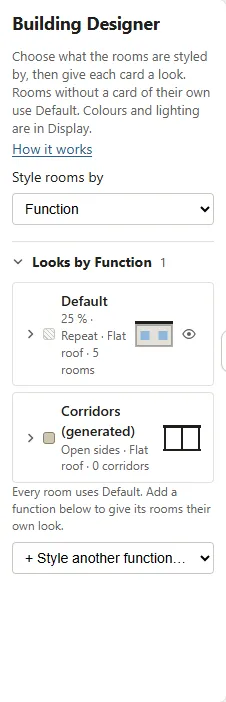
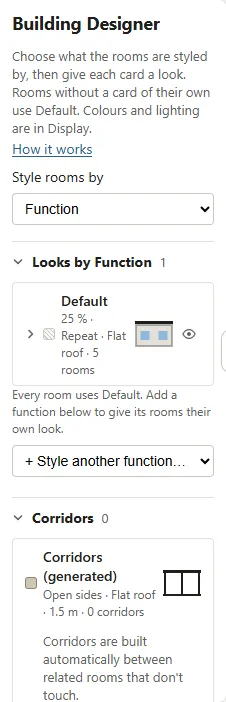
refactor(designer): corridors in their own section
The Corridors (generated) card moves out of "Looks by ..." into its own
collapsible Corridors section after the looks (remembered open state,
corridor count as meta); its content, commands and undo are unchanged
and it is always open inside the section. Properties points to
Building Designer -> Corridors; Guide text, mock, screenshot and the
workflow smoke step follow.

diff --git a/app/designer/DesignerPanel.tsx b/app/designer/DesignerPanel.tsx
@@ -193,6 +193,7 @@ export function DesignerPanel({ design, project, facades }: DesignerPanelProps) 
   const isNumber = cards.attribute.kind === 'number';
   const bands = cards.mode === 'bands';
   const noun = addNoun(cards.attribute);
+  const corridors = corridorCard(doc, spatial);
   return (
     <div className="sgl-designer" aria-label="Building Designer">
       <div className="sgl-designer-intro">
@@ -276,15 +277,6 @@ export function DesignerPanel({ design, project, facades }: DesignerPanelProps) 
         <ul className="sgl-designer-list">
           {renderCard(cards.defaultCard)}
           {cards.cards.map(renderCard)}
-          <li key="corridors">
-            <CorridorCard
-              card={corridorCard(doc, spatial)}
-              onWalls={(walls) => send(setCorridorWallsEdit(doc, walls))}
-              onRoof={(roof) => send(setCorridorRoofEdit(doc, roof))}
-              onWidth={(text) => send(setCorridorWidthEdit(doc, text))}
-              onReset={() => send(resetCorridorsEdit(doc))}
-            />
-          </li>
         </ul>
         {cards.missingCount > 0 && cards.attribute.status !== 'removed' && (
           <p className="sgl-designer-source">
@@ -301,6 +293,17 @@ export function DesignerPanel({ design, project, facades }: DesignerPanelProps) 
           <AddCardMenu noun={noun} cards={cards} onAdd={(option) => send(addCardEdit(doc, cards.by, option.value, option.label))} />
         )}
         {facades && <FacadeLibraryFooter facades={facades} usedHere={usedHere} />}
+      </CollapsibleSection>
+
+      {/* Corridors are generic (2026-11-20): their own section, not a look of a function or attribute value. */}
+      <CollapsibleSection title="Corridors" sectionId="designer-corridors" defaultOpen meta={corridors.corridorCount !== null ? String(corridors.corridorCount) : undefined}>
+        <CorridorCard
+          card={corridors}
+          onWalls={(walls) => send(setCorridorWallsEdit(doc, walls))}
+          onRoof={(roof) => send(setCorridorRoofEdit(doc, roof))}
+          onWidth={(text) => send(setCorridorWidthEdit(doc, text))}
+          onReset={() => send(resetCorridorsEdit(doc))}
+        />
       </CollapsibleSection>
     </div>
   );
@@ -391,10 +394,11 @@ const CORRIDOR_WALL_HELP: Readonly<Record<string, string>> = {
 };
 
 /**
- * The Corridors card (owner 2026-11-19, "Corridors as a look card"): built like a room card, after
- * the room cards whatever "Style rooms by" is (corridors are not grouped by room values). Walls
- * (Enclosed / Open) and Roof (Flat / Pergola / None) of every generated corridor; windows and
- * imported façades do not apply to corridors. One relationship can still set its own in Properties.
+ * The Corridors card (owner 2026-11-19, "Corridors as a look card"; in its own Corridors section
+ * since 2026-11-20, because corridors are not grouped by any room value): built like a room card,
+ * always open (the section collapses it). Walls (Enclosed / Open), Roof (Flat / Pergola / None) and
+ * Width of every generated corridor; windows and imported façades do not apply to corridors. One
+ * relationship can still set its own in Properties.
  */
 function CorridorCard({
   card,
@@ -409,7 +413,6 @@ function CorridorCard({
   readonly onWidth: (text: string) => void;
   readonly onReset: () => void;
 }) {
-  const [open, toggleOpen] = useRememberedOpen('designer-card:corridors', false);
   const idBase = 'sgl-designer-corridors';
   const { effective, setHere, overrideCount, corridorCount } = card;
   const source = (here: boolean) => (here ? 'Set here' : 'Built-in default');
@@ -417,10 +420,7 @@ function CorridorCard({
     <article className="sgl-designer-type sgl-designer-corridors" data-card="corridors" aria-labelledby={`${idBase}-name`}>
       <div className="sgl-designer-type-titlebar">
         <h4 className="sgl-designer-type-title">
-          <button type="button" className="sgl-designer-type-head" aria-expanded={open} aria-controls={`${idBase}-body`} onClick={toggleOpen}>
-            <svg className="sgl-designer-chevron" width="12" height="12" viewBox="0 0 12 12" aria-hidden="true">
-              <path d="M4 2.5 7.5 6 4 9.5" fill="none" stroke="currentColor" strokeWidth="1.6" strokeLinecap="round" strokeLinejoin="round" />
-            </svg>
+          <div className="sgl-designer-type-head sgl-designer-type-head--static">
             <span className="sgl-designer-swatch sgl-designer-swatch--corridor" aria-hidden="true" />
             <span className="sgl-designer-type-text">
               <span id={`${idBase}-name`} className="sgl-designer-type-name">
@@ -433,11 +433,11 @@ function CorridorCard({
               </span>
             </span>
             <FacadePreview fraction={0} layout="repeat" roof={effective.roof} walls={effective.walls} />
-          </button>
+          </div>
         </h4>
       </div>
 
-      <div id={`${idBase}-body`} className="sgl-designer-type-body" hidden={!open}>
+      <div id={`${idBase}-body`} className="sgl-designer-type-body">
         <p className="sgl-help">Corridors are built automatically between related rooms that don't touch.</p>
 
         <Subsection idBase={idBase} name="walls" title="Walls" rememberId="designer-card:corridors:walls">

diff --git a/app/designer/corridors.test.ts b/app/designer/corridors.test.ts
@@ -138,7 +138,7 @@ describe('corridor card model', () => {
   });
 });
 
-describe('Corridors card in the Looks list', () => {
+describe('Corridors card in its own Corridors section', () => {
   const html = (doc: DesignDocumentV2 = base()) => renderToStaticMarkup(createElement(DesignerPanel, { design: fakePort(doc) }));
   const cardOf = (markup: string) => {
     const start = markup.indexOf('data-card="corridors"');
@@ -146,13 +146,21 @@ describe('Corridors card in the Looks list', () => {
     return markup.slice(start, markup.indexOf('</article>', start));
   };
 
-  it('is one card after the room cards, built like a room card: Walls and Roof with source tags, preview, reset', () => {
+  it('is one card in its own section after Looks (not a look), built like a room card: Walls, Roof, Width with source tags, preview, reset', () => {
     const markup = html();
-    // In the Looks list, after the Default card; the old separate section is gone.
-    expect(markup).not.toContain('data-section="designer-corridors"');
-    const list = markup.slice(markup.indexOf('<ul class="sgl-designer-list">'));
-    expect(list.indexOf('data-card="corridors"')).toBeGreaterThan(list.indexOf('>Default<'));
+    // Its own collapsible section (2026-11-20), after the Looks section; the Looks list does not contain it.
+    const looks = markup.indexOf('data-section="designer-functions"');
+    const section = markup.indexOf('data-section="designer-corridors"');
+    expect(looks).toBeGreaterThan(-1);
+    expect(section).toBeGreaterThan(looks);
+    expect(markup.slice(looks, section)).not.toContain('data-card="corridors"');
+    expect(markup.indexOf('data-card="corridors"')).toBeGreaterThan(section);
     expect(markup.split('data-card="corridors"').length - 1).toBe(1);
+    // The Looks count is Default + the function cards only.
+    expect(markup.slice(looks, section)).toMatch(/Looks by Function<\/span><span class="[^"]*">1</);
+    // Always open inside its section: no toggle of its own, the body is never hidden.
+    expect(cardOf(markup)).not.toContain('<button type="button" class="sgl-designer-type-head');
+    expect(markup).not.toMatch(/id="sgl-designer-corridors-body"[^>]*hidden/);
     const card = cardOf(markup);
     expect(card).toContain('>Corridors (generated)</span>');
     expect(card).toContain('Open sides · Flat roof');
@@ -216,7 +224,7 @@ describe('Properties: corridor walls and roof of one relationship', () => {
     const html = render(withCorridors({ walls: 'enclosed', roof: 'pergola' }));
     expect(html).toMatch(/aria-label="Corridor walls"[^>]*>.*?<option value=""[^>]*selected=""[^>]*>Design default \(Enclosed\)<\/option>/);
     expect(html).toMatch(/aria-label="Corridor roof"[^>]*>.*?<option value=""[^>]*selected=""[^>]*>Design default \(Pergola \(open slats\)\)<\/option>/);
-    expect(html).toContain('Change every corridor with the Corridors card in Building Designer → Looks.');
+    expect(html).toContain('Change every corridor with the Corridors card in Building Designer → Corridors.');
     const builtIn = render(base());
     expect(builtIn).toContain('Design default (Open)');
     expect(builtIn).toContain('Design default (Flat)');

diff --git a/app/inspector/EdgeProperties.tsx b/app/inspector/EdgeProperties.tsx
@@ -148,7 +148,7 @@ function EdgePropertiesV2(props: PanelProps & { readonly edgeId: number }) {
         aria-label={`Corridor ${field}`}
         onChange={(e) => setCorridor(field, e.currentTarget.value)}
       >
-        <option value="" title="The Corridors card of the whole design (Building Designer → Looks)">
+        <option value="" title="The Corridors card of the whole design (Building Designer → Corridors)">
           Design default ({labelOfChoice(choices, designValue)})
         </option>
         {choices.map((c) => (
@@ -227,7 +227,7 @@ function EdgePropertiesV2(props: PanelProps & { readonly edgeId: number }) {
             attributeId="corridor"
             kind="geometry"
             label="Corridor"
-            title="This relationship’s own corridor look: walls, roof and width. Used only when a corridor is generated; Design default follows the Corridors card (Building Designer → Looks)."
+            title="This relationship’s own corridor look: walls, roof and width. Used only when a corridor is generated; Design default follows the Corridors card (Building Designer → Corridors)."
             control={
               <div className="sgl-corridor">
                 {corridorField('walls', 'Walls', CORRIDOR_WALL_CHOICES, designLook.walls)}
@@ -250,7 +250,7 @@ function EdgePropertiesV2(props: PanelProps & { readonly edgeId: number }) {
                 ? `This corridor: ${corridorLookText(look)}. `
                 : `No corridor is generated for this relationship now${resolution?.status === 'direct' ? ' (its rooms touch)' : ''}; these values are used only if one is. `}
               {ownCount === 0
-                ? 'Change every corridor with the Corridors card in Building Designer → Looks.'
+                ? 'Change every corridor with the Corridors card in Building Designer → Corridors.'
                 : `${ownCount === 1 ? 'One is' : ownCount === 2 ? 'Two are' : 'All three are'} set for this relationship only; Design default follows the Corridors card.`}
             </p>
           </FieldRow>

diff --git a/app/ui/guide/diagrams.tsx b/app/ui/guide/diagrams.tsx
@@ -737,23 +737,27 @@ const D: Record<string, () => ReactNode> = {
     </Mock>
   ),
   'panel-designer': () => (
-    <Mock alt="Building Designer: (1) Style rooms by Function, (2) the Default look card, (3) the Corridors (generated) card open, with Walls Enclosed or Open and Roof Flat, Pergola or None, (4) + Style another function." title="Building Designer">
+    <Mock alt="Building Designer: (1) Style rooms by Function, (2) the Default look card in Looks by Function, (3) + Style another function, (4) the Corridors section, separate from the looks, with Walls Enclosed or Open, Roof Flat, Pergola or None, and Width." title="Building Designer">
       <MRow label="Style rooms by" value="Function ▾" n={1} />
       <MSec title="Looks by Function" open>
         <div className="sgl-gd-card">
           <b>Default</b> 25 % · Repeat · Flat roof · 5 rooms <MNum n={2} />
         </div>
+        <div className="sgl-gd-row">
+          <MBtn>+ Style another function… ▾</MBtn> <MNum n={3} />
+        </div>
+      </MSec>
+      <MSec title="Corridors" open n={4}>
         <div className="sgl-gd-card open">
-          <b>Corridors (generated)</b> Open sides · Flat roof <MNum n={3} />
+          <b>Corridors (generated)</b> Open sides · Flat roof · 1.5 m
           <div className="sgl-gd-sub">WALLS</div>
           <MRow label="Sides" value={<MSeg items={['Enclosed', 'Open']} on="Open" />} tag="Built-in default" />
           <div className="sgl-gd-sub">ROOF</div>
           <MRow label="Style" value="Flat ▾ (Flat · Pergola · None)" />
+          <div className="sgl-gd-sub">WIDTH</div>
+          <MRow label="Width" value="1.5 m" tag="Built-in default" />
         </div>
       </MSec>
-      <div className="sgl-gd-row">
-        <MBtn>+ Style another function… ▾</MBtn> <MNum n={4} />
-      </div>
     </Mock>
   ),
   'panel-analyse': () => (

diff --git a/app/ui/guide/content.ts b/app/ui/guide/content.ts
@@ -203,8 +203,8 @@ const TEXT: readonly GuideTabContent[] = [
       {
         id: 'panel-designer',
         title: 'Building Designer',
-        summary: 'How the building looks: rooms are styled by one attribute, and each group gets a look card (façade, windows, roof).',
-        example: '(1) Style rooms by Function, (2) the Default card for every room without its own card, (3) the Corridors (generated) card: Walls Enclosed or Open, Roof Flat, Pergola or None, and Width in metres, centred in the corridor’s cells (default Open + Flat, 1.5 m), (4) + Style another function to give, say, the Kitchen its own look.',
+        summary: 'How the building looks: rooms are styled by one attribute, and each group gets a look card (façade, windows, roof). Generated corridors have their own section.',
+        example: '(1) Style rooms by Function, (2) the Default card for every room without its own card, (3) + Style another function to give, say, the Kitchen its own look, (4) the Corridors section, for every generated corridor whatever the rooms are styled by: Walls Enclosed or Open, Roof Flat, Pergola or None, and Width in metres, centred in the corridor’s cells (default Open + Flat, 1.5 m).',
         diagram: 'panel-designer',
         learnMore: LINKS.envelope,
       },

diff --git a/app/ui/help/topics.ts b/app/ui/help/topics.ts
@@ -56,7 +56,7 @@ const topics = [
     details:
       'Walls: Enclosed puts a side wall on each side; Open leaves the sides open, with slim posts where there is a roof to carry. Roof: Flat, Pergola (open slats) or None. ' +
       'Width: how wide the corridor is built, in metres, centred in its cells (more than 0, at most one cell, 3 m); the default is 1.5 m. The corridor still takes its whole cells, and the opening into each room is no wider than the corridor. ' +
-      'The default is Open with a Flat roof, 1.5 m wide; Open with no roof is just the floor. Set every corridor with the Corridors card in Building Designer → Looks; one relationship can set its own walls, roof or width in Properties or the Data table ("Design default" follows the card). ' +
+      'The default is Open with a Flat roof, 1.5 m wide; Open with no roof is just the floor. Set every corridor with the Corridors card in Building Designer → Corridors; one relationship can set its own walls, roof or width in Properties or the Data table ("Design default" follows the card). ' +
       'A corridor is only built when the relationship is Connected via route. Corridor cells are reserved, so rooms cannot be placed on them without confirmation.',
   },
   {

diff --git a/app/ui/guide/screenshots.ts b/app/ui/guide/screenshots.ts
@@ -32,7 +32,7 @@ export const SHOT_ALT: Readonly<Record<string, string>> = {
   'howto-save': 'The Project panel: 1 Project in the left rail, 2 Save locally, 3 Export project, 4 Open project.',
   'panel-properties': 'Properties of the Living room: 1 Room 2, 2 Required by the app, 3 Geometry, 4 Custom.',
   'panel-attributes': 'The Attributes panel: 1 Node and Edge tabs, 2 the five sections, 3 + Add attribute.',
-  'panel-designer': 'The Building Designer: 1 Style rooms by, 2 the Default card, 3 the Corridors (generated) card, 4 + Style another function.',
+  'panel-designer': 'The Building Designer: 1 Style rooms by, 2 the Default card, 3 + Style another function, 4 the Corridors section.',
   'panel-analyse': 'The Analyse panel: 1 Upload your own (.ts), 2 the Show filter, 3 Node, 4 Edge, 5 Network, 6 Queries.',
   'panel-transform': 'The Transform panel: 1 Grow to target area, 2 the Houses parameter, 3 Run, 4 the preview, 5 Apply and Discard.',
   'panel-scenarios': 'The Scenarios panel: 1 Scenario 1, 2 a second scenario, 3 + New scenario.',

diff --git a/app/views/data/dataModel.ts b/app/views/data/dataModel.ts
@@ -333,7 +333,7 @@ function corridorCells(edge: RelationshipEdge, ctx: MetricContext): Record<strin
         : {
             text: corridorChoiceLabel(p, card[p.part]),
             origin: 'default',
-            title: `Not stored: the design’s Corridors card applies (Building Designer → Looks).${unused}`,
+            title: `Not stored: the design’s Corridors card applies (Building Designer → Corridors).${unused}`,
             hint: built ? 'default' : 'default · not built',
           };
   }
@@ -345,7 +345,7 @@ function corridorCells(edge: RelationshipEdge, ctx: MetricContext): Record<strin
       : {
           text: formatCorridorWidth(card.width),
           origin: 'default',
-          title: `Not stored: the design’s Corridors card applies (Building Designer → Looks).${unused}`,
+          title: `Not stored: the design’s Corridors card applies (Building Designer → Corridors).${unused}`,
           hint: built ? 'default' : 'default · not built',
         };
   return out;

diff --git a/app/designer/designer.test.ts b/app/designer/designer.test.ts
@@ -335,7 +335,7 @@ describe('DesignerPanel (static render)', () => {
     const doc = labDocV2({ studio: { windowLayout: 'stretch', windowFraction: 0.4 } });
     const html = renderToStaticMarkup(createElement(DesignerPanel, { design: fakePort(doc) }));
     const heads = html.match(/<button type="button" class="sgl-designer-type-head"[^>]*>/g) ?? [];
-    expect(heads.length).toBe(3); // Default + the studio card + Corridors
+    expect(heads.length).toBe(2); // Default + the studio card (Corridors has its own section, always open)
     for (const head of heads) expect(head).toContain('aria-expanded="false"');
     expect(html).toMatch(/id="sgl-designer-studio-body" class="sgl-designer-type-body" hidden=""/);
     expect(html).toMatch(/40 % · Stretch · Flat roof · 1 room · changed/);

diff --git a/app/designer/designerModel.ts b/app/designer/designerModel.ts
@@ -843,7 +843,7 @@ export function selectedRelationship(
 
 // ---------------------------------------------------------------------------------------------
 // The Corridors card (owner 2026-11-19, "Corridors as a look card"): walls + roof of every
-// generated corridor, shown in the Looks list after the room cards whatever "Style rooms by" is.
+// generated corridor, shown in its own Corridors section after the Looks (2026-11-20), whatever "Style rooms by" is.
 
 /** The Corridors card: effective walls, roof and width and whether the card sets them. */
 export interface CorridorCardRow {

diff --git a/app/designer/designer.css b/app/designer/designer.css
@@ -361,6 +361,11 @@
   color: var(--muted, #62625c);
   transition: transform 120ms ease;
 }
+/* The Corridors card is always open in its own section: its head is not a button. */
+.sgl-designer-type .sgl-designer-type-head--static,
+:where(.toolbar, .sgl-sidenav-panel) .sgl-designer-type .sgl-designer-type-head--static {
+  cursor: default;
+}
 .sgl-designer-type-head[aria-expanded='true'] .sgl-designer-chevron {
   transform: rotate(90deg);
 }

diff --git a/docs/CONTRACTS-V2.md b/docs/CONTRACTS-V2.md
@@ -32,7 +32,7 @@ Shared interfaces for the seven parallel MVP branches (`01-graph-ui` … `07-tea
 | `custom` | The node's / edge's custom attributes (JSON primitives), keyed by field key; `{}` when none. |
 | `relationship` | `RelationshipKind = 'access' \| 'open'`; `DEFAULT_RELATIONSHIP_KIND = 'access'`. **No adjacency requirement.** |
 | `corridor` | Optional `CorridorLook` = `{ walls?: 'enclosed' \| 'open', roof?: 'flat' \| 'pergola' \| 'none', width?: number }` (strict; written only when a field is set, key order `walls`, `roof`, `width`; `width` in metres, `0 < width ≤ MAX_CORRIDOR_WIDTH` = one cell, `GRID_CELL_SIZE.horizontal` = 3 m, added 2026-11-19): this relationship's own corridor look, a built-in Geometry attribute of three values, walls | roof | width (Properties and the Data table). Read with `corridorLookOf(edge, doc.settings)`, per field: own value → `settings.corridors` → built-in (`walls: 'open'`, `roof: 'flat'`, `width: 1.5`). Used only when the edge is routed. Replaced `connectorStyle` on 2026-11-19 (no migration: not yet distributed). |
-| `settings.corridors` | Optional `CorridorLook` (2026-11-19, "Corridors as a look card"): the Corridors card in Building Designer → Looks, the walls, roof and width of every generated corridor; written only when a field is set. `designCorridorLook(settings)` resolves it against the built-in default (`DEFAULT_CORRIDOR_LOOK` = open + flat, 1.5 m). Geometry: `enclosed` = a side wall on each side; `open` = open sides with posts only where there is a roof; roof `flat` slab, `pergola` slats (like a room pergola), `none` (open + none = floor only). `width`: floor, roof, side walls and posts are built at that width, centred on the cell's axis along the corridor; the corridor still occupies its whole cells (occupancy, routing and neighbouring rooms' faces unchanged). The room face at each end carries `corridorWidth`: a door is no wider than the corridor, and an `open` end is a full-height opening as wide as the corridor with wall beside it. A narrower corridor has its own sides even beside a room or a parallel corridor. |
+| `settings.corridors` | Optional `CorridorLook` (2026-11-19, "Corridors as a look card"): the Corridors card in Building Designer → Corridors, the walls, roof and width of every generated corridor; written only when a field is set. `designCorridorLook(settings)` resolves it against the built-in default (`DEFAULT_CORRIDOR_LOOK` = open + flat, 1.5 m). Geometry: `enclosed` = a side wall on each side; `open` = open sides with posts only where there is a roof; roof `flat` slab, `pergola` slats (like a room pergola), `none` (open + none = floor only). `width`: floor, roof, side walls and posts are built at that width, centred on the cell's axis along the corridor; the corridor still occupies its whole cells (occupancy, routing and neighbouring rooms' faces unchanged). The room face at each end carries `corridorWidth`: a door is no wider than the corridor, and an `open` end is a full-height opening as wide as the corridor with wall beside it. A narrower corridor has its own sides even beside a room or a parallel corridor. |
 | `settings.styleBy` / `settings.styles` | **Style rooms by** (owner 2026-11-18; replaced `typeAppearance`, old files are not read). `styleBy` = `'function'` (default) | `'level'` | `'attribute:<field id>'` | `'metric:<metric id>'`: the ONE attribute that decides each room's look. `styles[styleBy]` = that attribute's setup, remembered per attribute: `{ default?: Look, groups?: [{ value: string | number | boolean, look: Look }], dividers?: number[], bands?: Look[], mode?: 'values' | 'bands' }`. A number can keep both value cards and bands; `mode` says which is active (absent = bands when `dividers` are stored, else value cards; S3, 2026-11-19). Each room falls in exactly one card: with bands active, the band holding its number (band i = `[dividers[i-1], dividers[i])`, ends open); otherwise the value card it equals (text trimmed, case-insensitive); else **Default** (also without a value). Validation: card values unique, dividers strictly ascending, `bands.length = dividers.length + 1`, `mode: 'bands'` needs dividers. Resolved per room on read by `nodeLooks(doc, base, values?)`: each look field card → Default → `base(function)` (toolkit window coverage) → built-in. Function and Level are read from the document; custom and measured values are passed by the caller. Cards for values no room has are tolerated (no validation error). |
 | `Look` | `{ windowFraction?: [0,1], windowLayout?: 'repeat' | 'stretch', walls?: 'enclosed' | 'open', roof?: 'flat' | 'pergola' | 'none', facade?: FacadeModule }`; absent = inherit. `stretch` = one window per façade (room side over all its bays and storeys, inset by an even frame, same glazed share); `walls: 'open'` leaves out the room's exterior walls and windows (shared walls stay); `pergola` = open slats. `facade` = optional imported module, or `'none'` on a card (no module even when Default has one; 2026-11-18) — module = `{ assetId, placement: 'repeat' | 'stretch', flip?: true, door?: { assetId, flip?: true }, open?: { assetId, flip?: true } }` (`flip` turns it round; `door` / `open` replace the façade bays where an open-air connector meets the room). Rooms with `walls: 'open'` never get a module. `assetId` names a PROJECT asset (CONTRACTS-V3 §2); an unknown id draws nothing (the Designer warns). |
 
